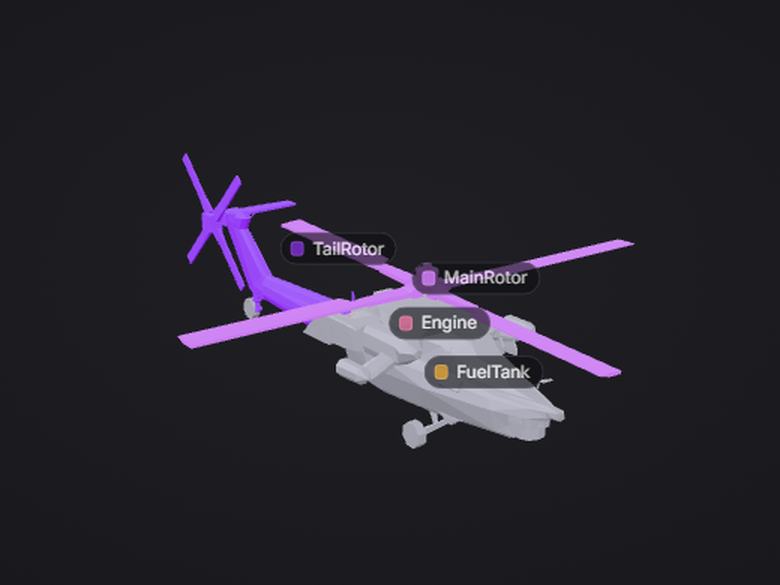
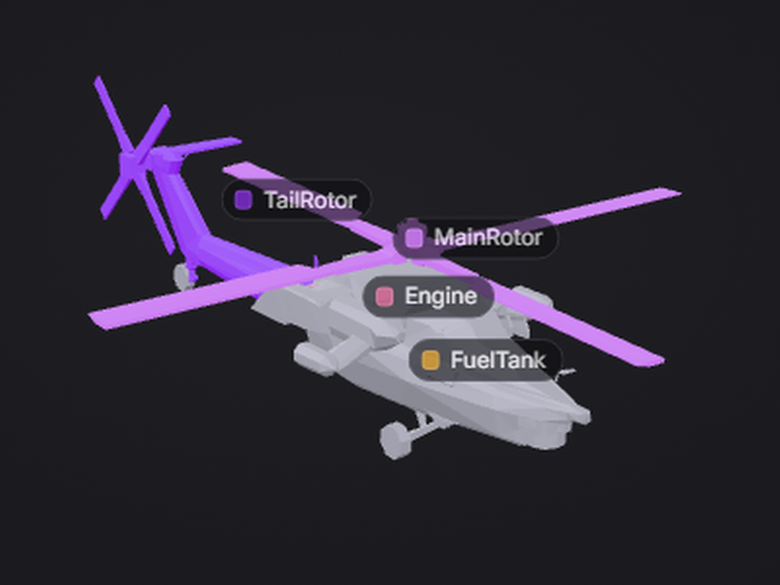
site: Ask answer endpoint live (Workers AI llama-3.1-8b-fp8); tighter hero spacing, smaller viewer previews

Changed region(s): [[0.0923, 0.1231, 0.8923, 0.8]]

diff --git a/worker/ask/src/index.js b/worker/ask/src/index.js
@@ -3,7 +3,7 @@
 // the model to answer from those sections and returns the text. It keeps no state and no keys:
 // the model runs through the Workers AI binding, whose free daily allowance caps total use.
 
-const MODEL = "@cf/meta/llama-3.1-8b-instruct";
+const MODEL = "@cf/meta/llama-3.1-8b-instruct-fp8";
 const MAX_QUESTION = 300;
 const MAX_SOURCES = 6;
 const MAX_SOURCE_CHARS = 1800;
@@ -81,8 +81,9 @@ export default {
     try {
       const out = await env.AI.run(MODEL, { messages: buildMessages(parsed), max_tokens: 400 });
       return reply({ answer: String(out.response || "").trim() }, 200, headers);
-    } catch {
-      return reply({ error: "model unavailable" }, 502, headers);
+    } catch (err) {
+      console.error("AI.run failed:", err && err.message);
+      return reply({ error: "model unavailable", detail: String((err && err.message) || err).slice(0, 300) }, 502, headers);
     }
   },
 };

diff --git a/_sass/custom/custom.scss b/_sass/custom/custom.scss
@@ -444,13 +444,13 @@ input:focus-visible {
 // Home page: hero, pill buttons, category cards.
 .wd-hero {
   display: grid;
-  gap: 1rem 3rem;
+  gap: 0 3rem;
   align-items: start;
   padding: 2rem 0 1rem;
 
   // Text and "Finding things" stack on the left; the viewer previews run down the right.
   @media (min-width: 62rem) {
-    grid-template-columns: minmax(0, 1fr) minmax(18rem, 24rem);
+    grid-template-columns: minmax(0, 1fr) minmax(16rem, 20rem);
     .wd-hero-text { grid-column: 1; grid-row: 1; }
     .wd-hero-finding { grid-column: 1; grid-row: 2; }
     .wd-hero-viewers { grid-column: 2; grid-row: 1 / span 2; }
@@ -465,8 +465,9 @@ input:focus-visible {
     font-size: 1.15rem;
     color: $ue-text;
     max-width: 60ch;
-    margin-bottom: 2rem;
+    margin-bottom: 1.5rem;
   }
+  .wd-hero-finding h2 { margin-top: 0; }
   p code {
     white-space: nowrap;
   }
